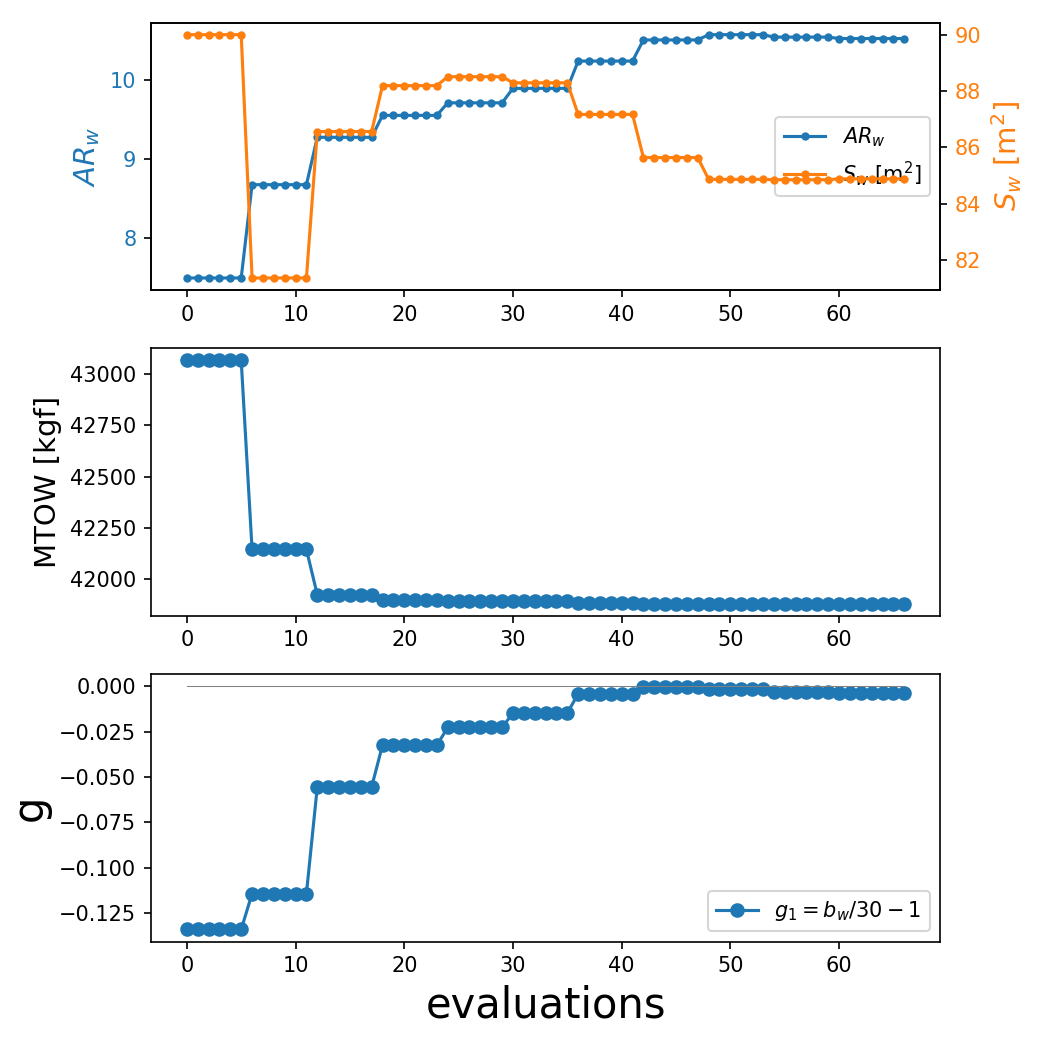
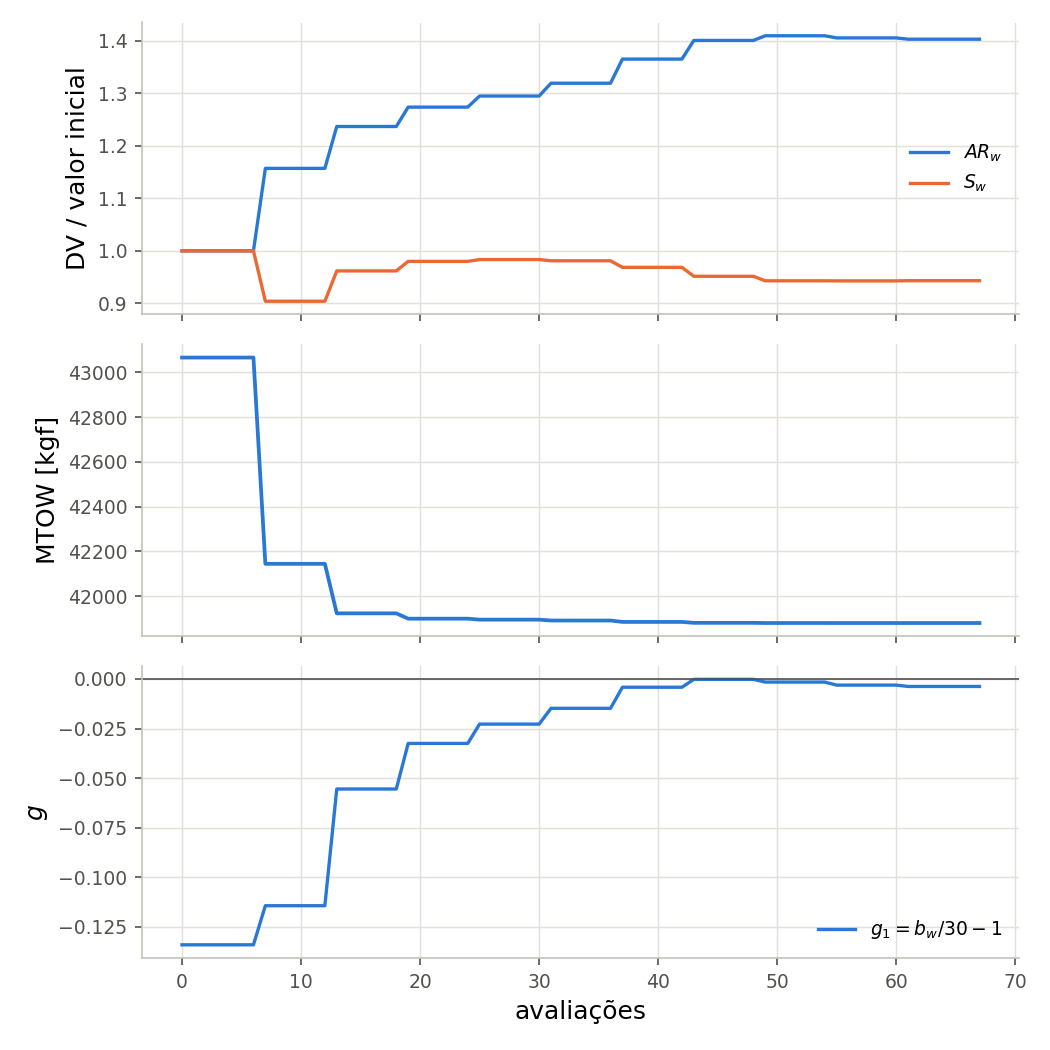
Melhora as figuras (paleta CVD-safe, sem eixo duplo) e prepara pasta para entrega
- historico da equipe: rotulos diretos nas DVs de maior variacao, valor
  final de W0 anotado, restricoes ativas em destaque e inativas em cinza
  (16 series coloridas viravam ruido); paleta categorica validada para
  daltonismo, grade em fio fino
- fokker100: elimina o eixo y duplo do painel de DVs (escalas arbitrarias
  induzem correlacao falsa) normalizando pelo valor inicial; figuras
  movidas para Resultados/
- README reescrito para o professor rodar a pasta (comandos, tempos,
  dependencias, resultados) + requirements.txt
- .gitignore: artefatos LaTeX, zips e material local de aula

Claude-Session: https://claude.ai/code/session_014hFCziFqGFQbn9U1c9yviE

diff --git a/lab2_opt_equipe_geom.py b/lab2_opt_equipe_geom.py
@@ -237,23 +237,65 @@ analyze(airplane_ref)
 Xhist = np.array(Xlist)
 ghist = np.array(glist)
 
+# paleta categorica validada para daltonismo (ordem fixa) + tintas de apoio
+PAL = ['#2a78d6', '#eb6834', '#1baf7a', '#eda100',
+       '#e87ba4', '#008300', '#4a3aa7', '#e34948']
+INK2 = '#52514e'
+MUTED = '#c3c2b7'
+GRID = '#e1e0d9'
+
+def style_axes(ax):
+    ax.grid(color=GRID, linewidth=0.7)
+    ax.set_axisbelow(True)
+    for side in ('top', 'right'):
+        ax.spines[side].set_visible(False)
+    for side in ('left', 'bottom'):
+        ax.spines[side].set_color(MUTED)
+    ax.tick_params(colors=INK2, labelsize=9)
+
 fig, axs = plt.subplots(3, 1, figsize=(9,10), sharex=True)
 
-for k, name in enumerate(dv_names):
-    axs[0].plot(Xhist[:,k]/Xref[k], 'o-', markersize=3, label=name)
-axs[0].set_ylabel('DV / valor inicial', fontsize=12)
-axs[0].legend(fontsize=9, ncol=4)
+n_ev = len(flist)
 
-axs[1].plot(flist, 'o-', markersize=3, color='k')
+# DVs: rotulos diretos so nos maiores movimentos (o resto fica na legenda)
+destaque_dv = ('y_mlg', 'AR_w', 'tcr_w', 'S_w')
+for k, name in enumerate(dv_names):
+    axs[0].plot(Xhist[:,k]/Xref[k], '-', linewidth=1.6, color=PAL[k], label=name)
+    if name in destaque_dv:
+        axs[0].annotate(name, (n_ev-1, Xhist[-1,k]/Xref[k]),
+                        xytext=(5, 0), textcoords='offset points',
+                        fontsize=8, color=INK2, va='center')
+axs[0].set_ylabel('DV / valor inicial', fontsize=12)
+axs[0].legend(fontsize=8, ncol=4, frameon=False)
+axs[0].set_xlim(-2, n_ev*1.09)
+
+axs[1].plot(flist, '-', linewidth=1.8, color=PAL[0])
+axs[1].annotate('%.0f kgf\n(%.2f%%)'%(flist[-1], 100*(flist[-1]-W0_ref)/W0_ref),
+                (n_ev-1, flist[-1]), xytext=(5, 0), textcoords='offset points',
+                fontsize=8, color=INK2, va='center')
 axs[1].set_ylabel('$W_0$ [kgf]', fontsize=13)
 
+# restricoes: 16 series estoura o limite de cores com significado, entao
+# so as ativas no otimo ganham cor; as demais viram contexto em cinza
+ativas_idx = [k for k in range(len(CON)) if abs(g_opt[k]) < tol_ativo]
+ic = 0
+tem_label_inativa = False
 for k, name in enumerate(con_names):
-    axs[2].plot(ghist[:,k], 'o-', markersize=2.5, linewidth=1, label=name)
-axs[2].axhline(0, color='gray', linewidth=0.8)
+    if k in ativas_idx:
+        axs[2].plot(ghist[:,k], '-', linewidth=1.6, color=PAL[ic], label=name)
+        ic += 1
+    else:
+        axs[2].plot(ghist[:,k], '-', linewidth=0.9, color=MUTED,
+                    label=None if tem_label_inativa else 'inativas')
+        tem_label_inativa = True
+axs[2].axhline(0, color=INK2, linewidth=0.8)
 axs[2].set_ylabel('$g$ normalizada', fontsize=13)
 axs[2].set_xlabel('avaliações', fontsize=13)
 axs[2].set_ylim(-0.2, 2.0)
-axs[2].legend(fontsize=7, ncol=4, loc='upper right')
+axs[2].legend(fontsize=8, ncol=4, frameon=False, loc='upper right')
+
+for ax in axs:
+    style_axes(ax)
 
 plt.tight_layout()
 fig.savefig('equipe_geom_historico.png', dpi=150)
@@ -294,21 +336,21 @@ def sideview(ax, ap, color, label):
 
 fig, axs = plt.subplots(2, 1, figsize=(11,9))
 
-planform(axs[0], airplane_ref, 'tab:gray', 'baseline')
-planform(axs[0], airplane_opt, 'tab:red', 'otimizado')
+planform(axs[0], airplane_ref, '#898781', 'baseline')
+planform(axs[0], airplane_opt, '#e34948', 'otimizado')
 axs[0].set_title('Planta', fontsize=13)
 axs[0].set_ylabel('y [m]', fontsize=12)
 axs[0].legend()
 
-sideview(axs[1], airplane_ref, 'tab:gray', 'baseline')
-sideview(axs[1], airplane_opt, 'tab:red', 'otimizado')
+sideview(axs[1], airplane_ref, '#898781', 'baseline')
+sideview(axs[1], airplane_opt, '#e34948', 'otimizado')
 axs[1].set_title('Vista lateral', fontsize=13)
 axs[1].set_xlabel('x [m]', fontsize=12)
 axs[1].set_ylabel('z [m]', fontsize=12)
 
 for ax in axs:
     ax.set_aspect('equal')
-    ax.grid(alpha=0.3)
+    style_axes(ax)
 
 plt.tight_layout()
 fig.savefig('equipe_geom_planformas.png', dpi=150)

diff --git a/lab2_opt_fokker100.py b/lab2_opt_fokker100.py
@@ -136,27 +136,42 @@ print('='*58)
 
 Xhist = np.array(Xlist)
 
-fig = plt.figure(figsize=(7,7))
+# paleta e tintas (mesma convencao dos demais scripts do lab)
+PAL = ['#2a78d6', '#eb6834']
+INK2 = '#52514e'
+MUTED = '#c3c2b7'
+GRID = '#e1e0d9'
 
-ax1 = plt.subplot(311)
-l1 = ax1.plot(Xhist[:,0],'o-',color='C0',markersize=3,label=r'$AR_w$')
-ax1.set_ylabel(r'$AR_w$',fontsize=14,color='C0')
-ax1.tick_params(axis='y',labelcolor='C0')
-ax2 = ax1.twinx()
-l2 = ax2.plot(Xhist[:,1],'o-',color='C1',markersize=3,label=r'$S_w$ [m$^2$]')
-ax2.set_ylabel(r'$S_w$ [m$^2$]',fontsize=14,color='C1')
-ax2.tick_params(axis='y',labelcolor='C1')
-ax1.legend(l1+l2,[l.get_label() for l in l1+l2],loc='center right')
+def style_axes(ax):
+    ax.grid(color=GRID, linewidth=0.7)
+    ax.set_axisbelow(True)
+    for side in ('top', 'right'):
+        ax.spines[side].set_visible(False)
+    for side in ('left', 'bottom'):
+        ax.spines[side].set_color(MUTED)
+    ax.tick_params(colors=INK2, labelsize=9)
 
-plt.subplot(312)
-plt.plot(flist,'o-')
-plt.ylabel('MTOW [kgf]',fontsize=14)
-plt.subplot(313)
-plt.plot(g1list,'o-',label=r'$g_1 = b_w/30 - 1$')
-plt.plot([0,len(g1list)-1],[0,0],'gray',linewidth=0.5)
-plt.ylabel('g',fontsize=20)
-plt.xlabel('evaluations',fontsize=20)
-plt.legend()
+fig, axs = plt.subplots(3, 1, figsize=(7,7), sharex=True)
+
+# um eixo so: as duas DVs normalizadas pelo valor inicial (eixo duplo
+# induz correlacao falsa entre escalas arbitrarias)
+axs[0].plot(Xhist[:,0]/X0[0], '-', linewidth=1.6, color=PAL[0], label=r'$AR_w$')
+axs[0].plot(Xhist[:,1]/X0[1], '-', linewidth=1.6, color=PAL[1], label=r'$S_w$')
+axs[0].set_ylabel('DV / valor inicial', fontsize=12)
+axs[0].legend(fontsize=9, frameon=False, loc='center right')
+
+axs[1].plot(flist, '-', linewidth=1.8, color=PAL[0])
+axs[1].set_ylabel('MTOW [kgf]', fontsize=12)
+
+axs[2].plot(g1list, '-', linewidth=1.6, color=PAL[0], label=r'$g_1 = b_w/30 - 1$')
+axs[2].axhline(0, color=INK2, linewidth=0.8)
+axs[2].set_ylabel('$g$', fontsize=12)
+axs[2].set_xlabel('avaliações', fontsize=12)
+axs[2].legend(fontsize=9, frameon=False)
+
+for ax in axs:
+    style_axes(ax)
+
 plt.tight_layout()
 fig.savefig('fokker100_historico.png', dpi=150)
 
@@ -200,7 +215,7 @@ if PLOT_CONTOUR:
                colors='r', linewidths=2.5, zorder=3)
 
     xk_arr = np.array(xk)*Xref
-    ax.plot(xk_arr[:,0], xk_arr[:,1], '--o', color='r', markersize=4,
+    ax.plot(xk_arr[:,0], xk_arr[:,1], '--o', color='#e34948', markersize=4,
             markeredgecolor='w', markeredgewidth=0.5, zorder=4)
     ax.plot(X0[0], X0[1], 'o', color='lime', markersize=10,
             markeredgecolor='k', label='Ponto de partida', zorder=5)

diff --git a/README.md b/README.md
@@ -1,33 +1,59 @@
-# Lab 02 - Otimização 1 (PRJ-23)
+# Lab 02 - Otimização (PRJ-23) — Equipe Ararinha
 
 Instituto Tecnológico de Aeronáutica — Programa de Especialização em Engenharia Aeronáutica.
 Laboratório de otimização aplicada ao projeto conceitual de aeronaves.
 
+## Como rodar
+
+```
+pip install -r requirements.txt
+python lab2_opt_fokker100.py       # Secao 2 do roteiro  (~1,5 min, inclui contorno do espaco de projeto)
+python lab2_opt_equipe_geom.py     # Secao 3 do roteiro  (~5 s)
+python lab2_opt_equipe_moga.py     # Secao 4 do roteiro  (~6 min, NSGA-II com 16.000 analises)
+```
+
+Cada script imprime os resultados no terminal e salva as figuras `*.png`
+no diretório atual. Os scripts são determinísticos (semente fixa no NSGA-II),
+então re-rodar reproduz os números do relatório.
+
 ## Estrutura
 
-### Exemplos de aula
-- `01_uncon_opt_class.py` — otimização irrestrita
-- `02_con_opt_class.py` — otimização com restrições
-- `03_multiobj_class.py` — otimização multi-objetivo (NSGA-II / pymoo)
-- `plot_rosen.py` — visualização da função de Rosenbrock
-
-### Exercícios
-- `lab2_opt_fokker100.py` — otimização do Fokker 100
-- `lab2_opt_equipe.py` — otimização da aeronave da equipe (etapa 1)
-- `lab2_opt_equipe_geom.py` — otimização geométrica da aeronave da equipe (etapa 2)
-- `analyze.py`, `auxmod.py` — funções auxiliares
+### Exercícios do roteiro
+- `lab2_opt_fokker100.py` — **Seção 2**: aeronave default (`fokker100`), min MTOW com
+  `AR_w` e `S_w`, restrição `b_w ≤ 30 m`, SLSQP. Resultado: −2,76 % (ótimo interior).
+- `lab2_opt_equipe_geom.py` — **Seção 3**: aeronave da equipe (PRJ-22), min W0 com
+  8 DVs (asa + trem de pouso) e 16 restrições normalizadas, SLSQP.
+  Resultado: **W0 = 290.117 kgf (−5,42 %)**, 6 restrições ativas.
+- `lab2_opt_equipe_moga.py` — **Seção 4**: min {W0, Wf} com NSGA-II (pymoo),
+  pop. 80 × 200 gerações, população semeada com os ótimos SLSQP (âncoras de
+  convergência). Salva a frente em `equipe_moga_frente.csv`.
+- `lab2_opt_equipe.py` — versão intermediária da Seção 3 (6 DVs, sem as
+  restrições de encaixe do trem), mantida como registro da progressão.
 
 ### Ferramenta de projeto
-- `designTool/` — módulo de análise conceitual de aeronaves (aerodinâmica, peso, propulsão, desempenho, estabilidade)
+- `designTool/` — módulo de análise conceitual (geometria, aerodinâmica, pesos,
+  propulsão, desempenho, balanceamento, trem de pouso). Chamar via `analyze()`.
 
-### Resultados
-Figuras `*.png` geradas pelos scripts (históricos de convergência, espaço de projeto, planformas, vista 3D).
+### Exemplos de aula
+- `01_uncon_opt_class.py`, `02_con_opt_class.py`, `03_multiobj_class.py`,
+  `plot_rosen.py`, `analyze.py`, `auxmod.py`
+
+### Resultados e relatório
+- `Resultados/` — figuras geradas + `lab02_respostas_resumo.md` com as respostas
+  do roteiro.
+- `Relatorio/` — relatório em LaTeX (`relatorio_lab02.tex`) e PDF compilado.
+
+## Notas de modelagem
+
+Duas correções documentadas no apêndice do relatório:
+1. O bordo de fuga usado na restrição `mlg_fit` interpola o bordo de ataque
+   entre a raiz e o `xt_w` do designTool, pois `sweep_w` é medido a 1/4 de
+   corda (`geometry.py`) — a forma anterior subestimava o TE em ~0,45 m e
+   custava ~2,9 t de MTOW com a restrição ativa.
+2. Restrição `ground_clearance ≥ 0,5 m` adicionada: com `z_lg` como DV, o
+   bound superior permitiria a nacele abaixo do solo.
 
 ## Dependências
 
-```
-numpy
-scipy
-matplotlib
-pymoo>=0.6.0
-```
+Ver `requirements.txt` (numpy, scipy, matplotlib, pymoo). Testado com
+Python 3.12, scipy 1.16, pymoo 0.6.
